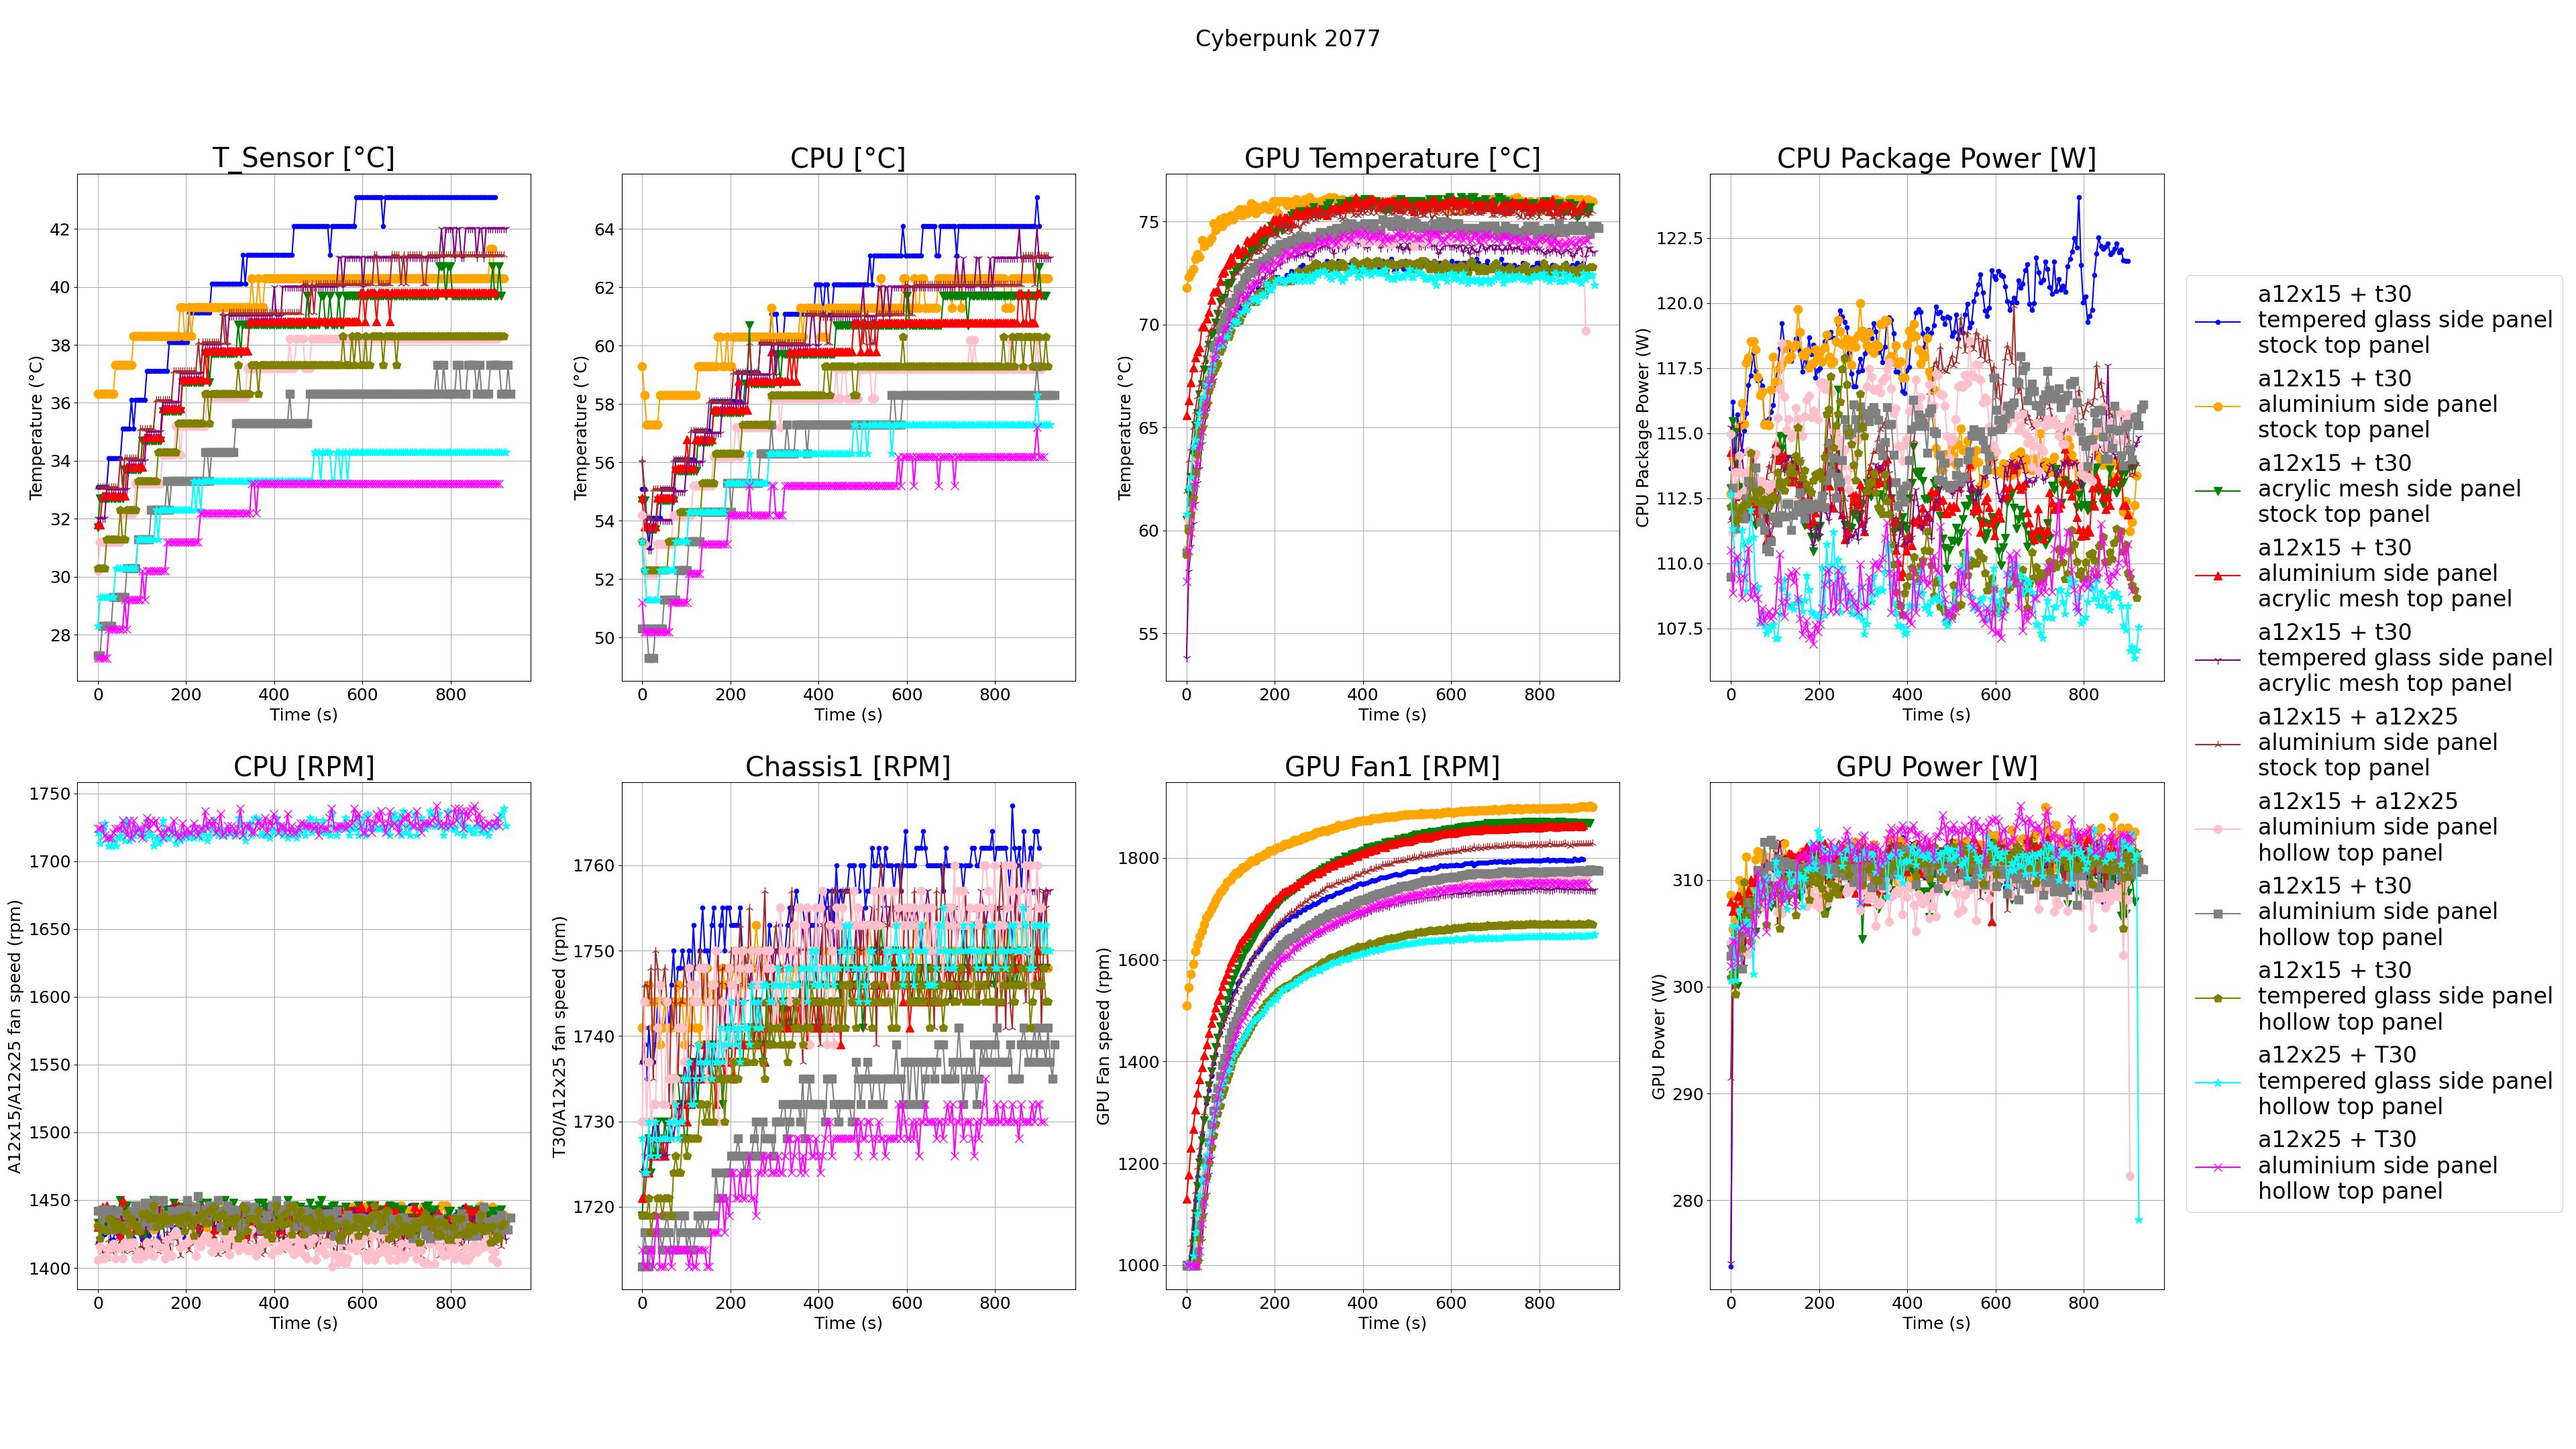
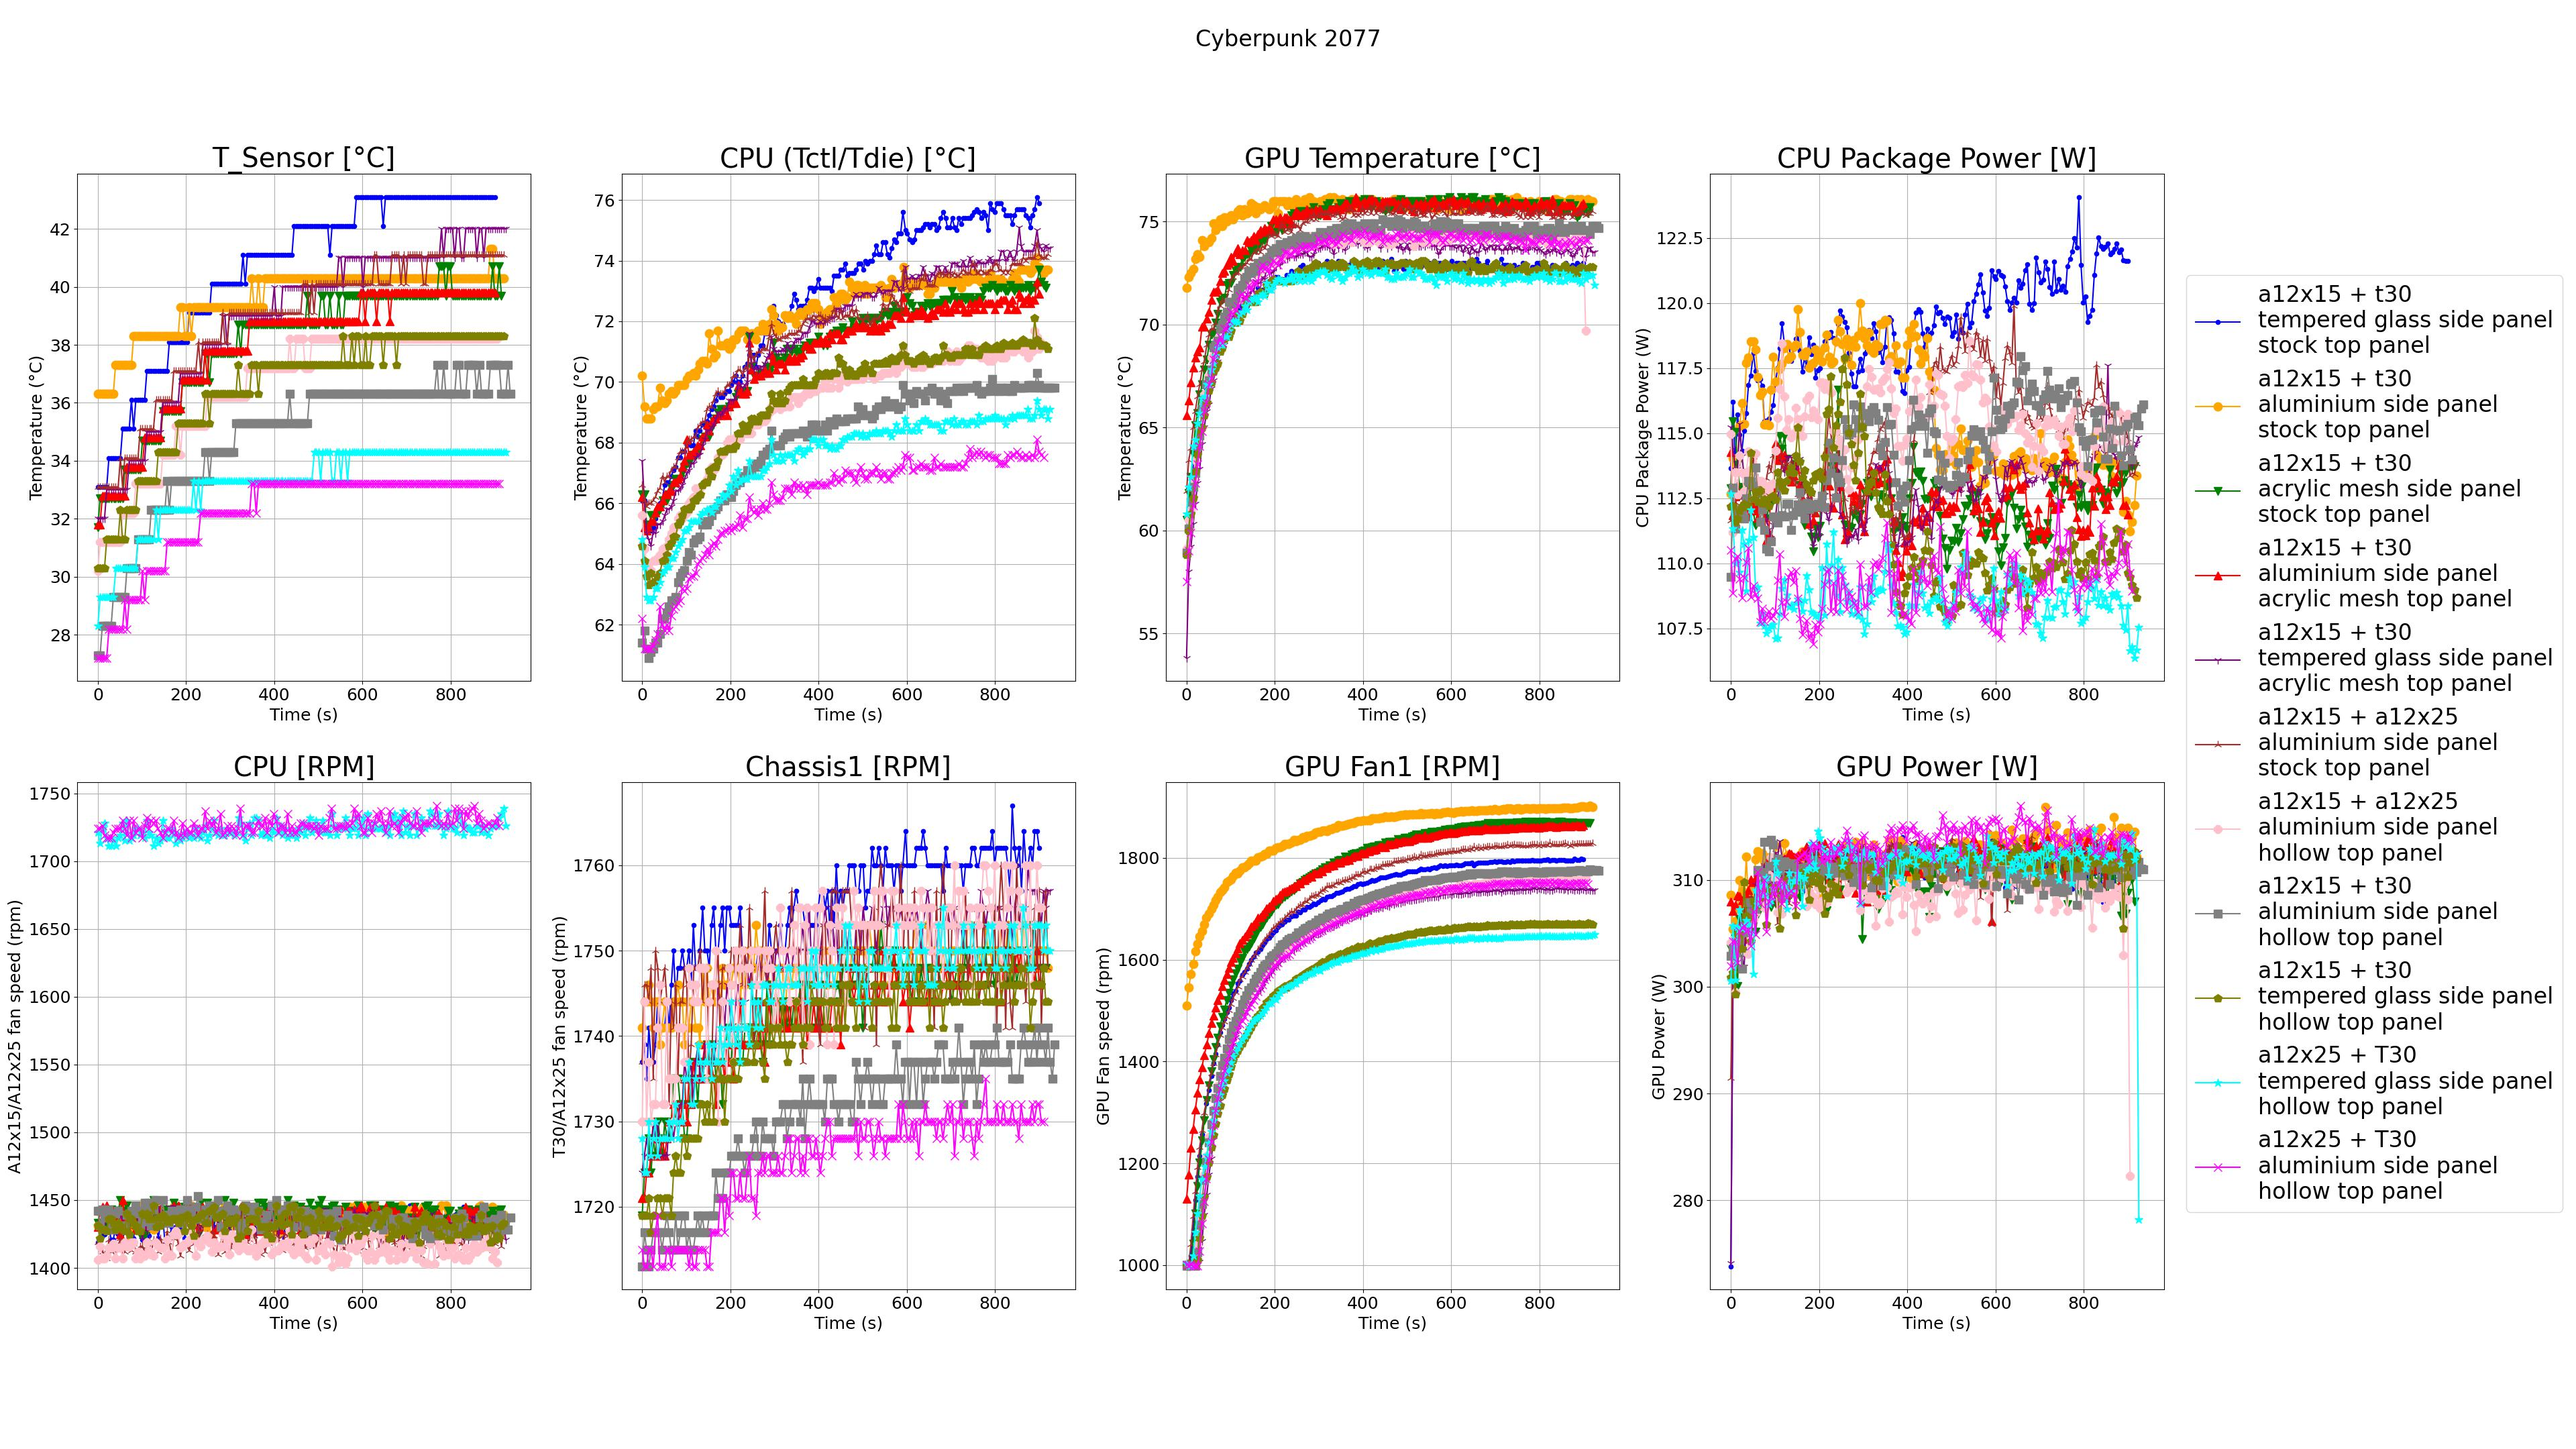
Changed CPU sensor
Changed the CPU sensor from "CPU [°C]" to "CPU (Tctl/Tdie) [°C]" to better reflect temperatures, conclusions stayed practically the same.

Changed region(s): [[0.2188, 0.0931, 0.4062, 0.4653]]

diff --git a/main.py b/main.py
@@ -56,12 +56,12 @@ def importHwInfo(fileName, ambient):
                                engine='python')
 
         # Only selects interesting columns and adjusts for changes in ambient temperature throughout testing
-        lastRead = lastRead.loc[:, ["T_Sensor [°C]", "CPU [°C]", "GPU Temperature [°C]", "CPU Package Power [W]",
+        lastRead = lastRead.loc[:, ["T_Sensor [°C]", "CPU (Tctl/Tdie) [°C]", "GPU Temperature [°C]", "CPU Package Power [W]",
                                     "CPU [RPM]", "Chassis1 [RPM]", "GPU Fan1 [RPM]", "GPU Power [W]", "Date", "Time"]]
-        lastRead.loc[:, ["T_Sensor [°C]", "CPU [°C]", "GPU Temperature [°C]"]] = \
-            lastRead.loc[:, ["T_Sensor [°C]", "CPU [°C]", "GPU Temperature [°C]"]].sub(ambient[i])
-        lastRead.loc[:, ["T_Sensor [°C]", "CPU [°C]", "GPU Temperature [°C]"]] = \
-            lastRead.loc[:, ["T_Sensor [°C]", "CPU [°C]", "GPU Temperature [°C]"]].add(ambientBase)
+        lastRead.loc[:, ["T_Sensor [°C]", "CPU (Tctl/Tdie) [°C]", "GPU Temperature [°C]"]] = \
+            lastRead.loc[:, ["T_Sensor [°C]", "CPU (Tctl/Tdie) [°C]", "GPU Temperature [°C]"]].sub(ambient[i])
+        lastRead.loc[:, ["T_Sensor [°C]", "CPU (Tctl/Tdie) [°C]", "GPU Temperature [°C]"]] = \
+            lastRead.loc[:, ["T_Sensor [°C]", "CPU (Tctl/Tdie) [°C]", "GPU Temperature [°C]"]].add(ambientBase)
 
         # I want a relative time in seconds, I get the first timestamp, so I can subtract it from all other timestamps.
         time0 = pd.to_datetime(lastRead.Date[0] + " " + lastRead.Time[0], format='%d.%m.%Y %H:%M:%S.%f')
@@ -86,7 +86,7 @@ def monsterPlot(data, title, key):
     fig.suptitle(title, fontsize=24)
 
     # More plot formatting
-    plotThings = ["T_Sensor [°C]", "CPU [°C]", "GPU Temperature [°C]", "CPU Package Power [W]", "CPU [RPM]",
+    plotThings = ["T_Sensor [°C]", "CPU (Tctl/Tdie) [°C]", "GPU Temperature [°C]", "CPU Package Power [W]", "CPU [RPM]",
                   "Chassis1 [RPM]", "GPU Fan1 [RPM]", "GPU Power [W]"]
     ylabels = ["Temperature (°C)", "Temperature (°C)", "Temperature (°C)", "CPU Package Power (W)",
                "A12x15/A12x25 fan speed (rpm)", "T30/A12x25 fan speed (rpm)", "GPU Fan speed (rpm)", "GPU Power (W)"]
@@ -224,15 +224,15 @@ if __name__ == '__main__':
     # Calculating means from the data
 
     # Between 300s and 600s the thermals are stable for the CB run
-    cbCPU = fancyMean(300, 600, "CPU [°C]", cb)
+    cbCPU = fancyMean(300, 600, "CPU (Tctl/Tdie) [°C]", cb)
     cbLiq = fancyMean(300, 600, "T_Sensor [°C]", cb)
 
     # Temperatures are stable between 700 and 850s for Cyberpunk 2077 and OCCT
-    cp77CPU = fancyMean(700, 850, "CPU [°C]", cp77)
+    cp77CPU = fancyMean(700, 850, "CPU (Tctl/Tdie) [°C]", cp77)
     cp77GPU = fancyMean(700, 850, "GPU Temperature [°C]", cp77)
     cp77Liq = fancyMean(700, 850, "T_Sensor [°C]", cp77)
 
-    occtCPU = fancyMean(700, 850, "CPU [°C]", occt)
+    occtCPU = fancyMean(700, 850, "CPU (Tctl/Tdie) [°C]", occt)
     occtGPU = fancyMean(700, 850, "GPU Temperature [°C]", occt)
     occtLiq = fancyMean(700, 850, "T_Sensor [°C]", occt)
 
